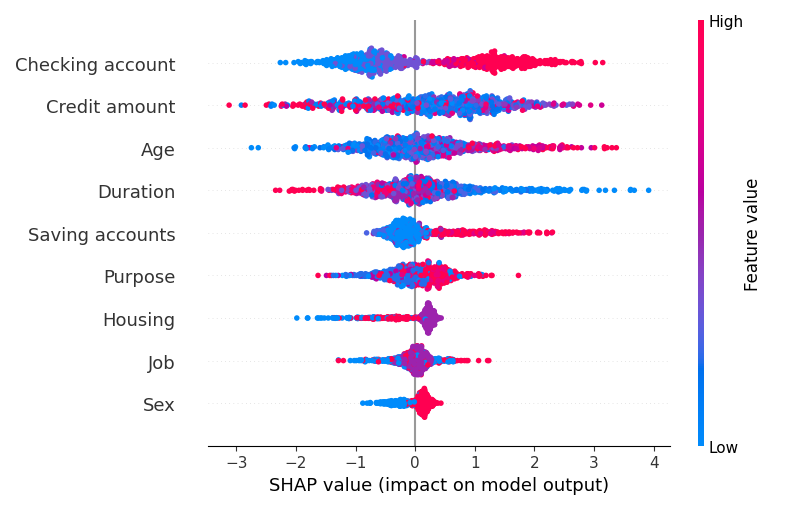
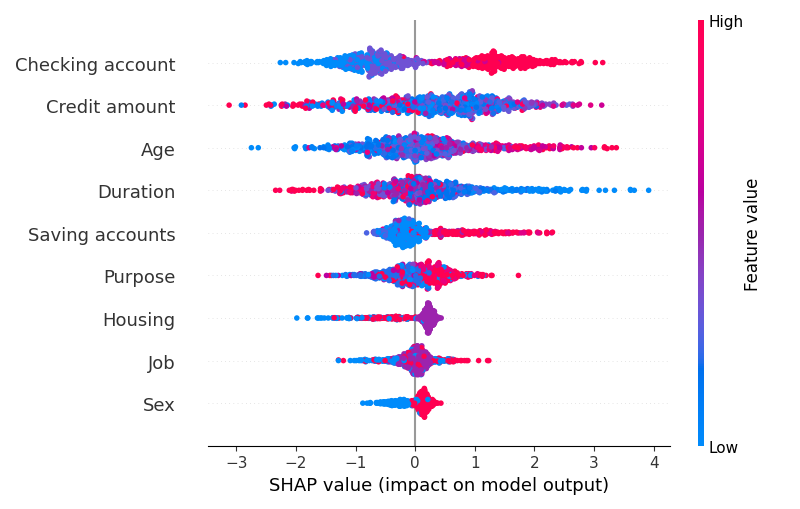
Updated code with hyper parameter tuning

diff --git a/credit_risk_prediction.py b/credit_risk_prediction.py
@@ -1,16 +1,16 @@
-
 # Phase 1: Load Data
 import pandas as pd
 import numpy as np
 import matplotlib.pyplot as plt
 import seaborn as sns
-from sklearn.model_selection import train_test_split
+from sklearn.model_selection import train_test_split, GridSearchCV
 from sklearn.preprocessing import StandardScaler, LabelEncoder
 from sklearn.ensemble import RandomForestClassifier
 from sklearn.tree import DecisionTreeClassifier
 from sklearn.neighbors import KNeighborsClassifier
 from sklearn.svm import SVC
 from sklearn.metrics import classification_report, confusion_matrix, roc_auc_score, roc_curve, accuracy_score, precision_score, recall_score, f1_score
+from sklearn.feature_selection import mutual_info_classif, RFE
 import xgboost as xgb
 import joblib
 import shap
@@ -115,12 +115,58 @@ y = df['Risk'].apply(lambda x: 1 if x == 'good' else 0)
 
 joblib.dump(X.columns.tolist(), "model/features.pkl")
 
-
 scaler = StandardScaler()
 X_scaled = scaler.fit_transform(X)
 
+# Phase 3.1: Correlation, Mutual Information, RFE
+# Correlation
+correlation_matrix = df.select_dtypes(include=['number']).corr()
+plt.figure(figsize=(10, 8))
+sns.heatmap(correlation_matrix, annot=True, cmap='coolwarm')
+plt.title("Correlation Matrix")
+plt.tight_layout()
+plt.savefig("outputs/correlation_matrix.png")
+plt.close()
+
+# Mutual Information
+mi_scores = mutual_info_classif(X_scaled, y, discrete_features=False)
+mi_series = pd.Series(mi_scores, index=X.columns).sort_values(ascending=False)
+plt.figure(figsize=(10, 6))
+mi_series.plot(kind='bar')
+plt.title("Mutual Information Scores")
+plt.tight_layout()
+plt.savefig("outputs/mutual_info.png")
+plt.close()
+
+# Recursive Feature Elimination
+rfe_selector = RFE(estimator=RandomForestClassifier(), n_features_to_select=5)
+rfe_selector = rfe_selector.fit(X_scaled, y)
+selected_features = X.columns[rfe_selector.support_]
+print("Top 5 Features from RFE:", list(selected_features))
+
 # Phase 4: Train/Test Split
 X_train, X_test, y_train, y_test = train_test_split(X_scaled, y, test_size=0.2, random_state=42)
+
+# Phase 5: Hyperparameter Tuning for Random Forest
+rf_param_grid = {
+    'n_estimators': [100, 200],
+    'max_depth': [None, 10, 20],
+    'min_samples_split': [2, 5]
+}
+
+rf = RandomForestClassifier(random_state=42)
+rf_grid = GridSearchCV(estimator=rf, param_grid=rf_param_grid, cv=5, scoring='f1', n_jobs=-1, verbose=1)
+rf_grid.fit(X_train, y_train)
+best_rf = rf_grid.best_estimator_
+
+# Replace the original model in the dictionary with the best tuned one
+models = {
+    "Random Forest": best_rf,
+    "XGBoost": xgb.XGBClassifier(verbosity=0, eval_metric='logloss'),
+    "K-Nearest Neighbors": KNeighborsClassifier(),
+    "Decision Tree": DecisionTreeClassifier(random_state=42),
+    "Support Vector Machine": SVC(probability=True)
+}
 
 # Function to evaluate and plot models
 def evaluate_and_plot_models(models, X_train, X_test, y_train, y_test, save_path="outputs/roc_comparison.png"):
@@ -170,18 +216,10 @@ def evaluate_and_plot_models(models, X_train, X_test, y_train, y_test, save_path
     print(results_df.sort_values(by="AUC", ascending=False))
     return results_df
 
-# Phase 5: Model Training, Evaluation & Comparison
-models = {
-    "Random Forest": RandomForestClassifier(random_state=42),
-    "XGBoost": xgb.XGBClassifier(verbosity=0, eval_metric='logloss'),
-    "K-Nearest Neighbors": KNeighborsClassifier(),
-    "Decision Tree": DecisionTreeClassifier(random_state=42),
-    "Support Vector Machine": SVC(probability=True)
-}
-
+# Phase 6: Train, Evaluate, Compare
 results_df = evaluate_and_plot_models(models, X_train, X_test, y_train, y_test)
 
-# Phase 6: Save the Best Model (based on AUC)
+# Phase 7: Save Best Model
 best_model_name = results_df.sort_values(by="AUC", ascending=False).iloc[0]['Model']
 best_model_accuracy = results_df.sort_values(by="AUC", ascending=False).iloc[0]['Accuracy']
 
@@ -192,7 +230,7 @@ best_model = models[best_model_name]
 joblib.dump(best_model, 'model/model.pkl')
 joblib.dump(scaler, 'model/scaler.pkl')
 
-# Phase 7: Feature Importance and SHAP Analysis
+# Phase 8: Feature Importance and SHAP
 if hasattr(best_model, 'feature_importances_'):
     importances = best_model.feature_importances_
     indices = np.argsort(importances)[::-1]
